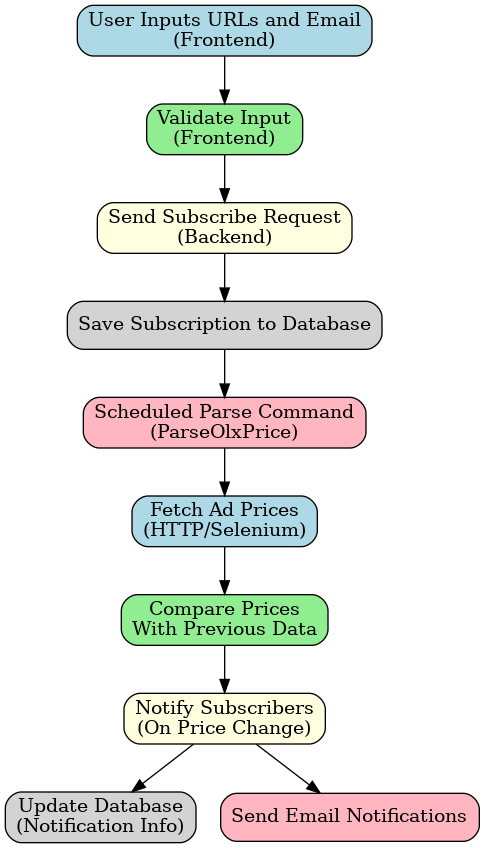
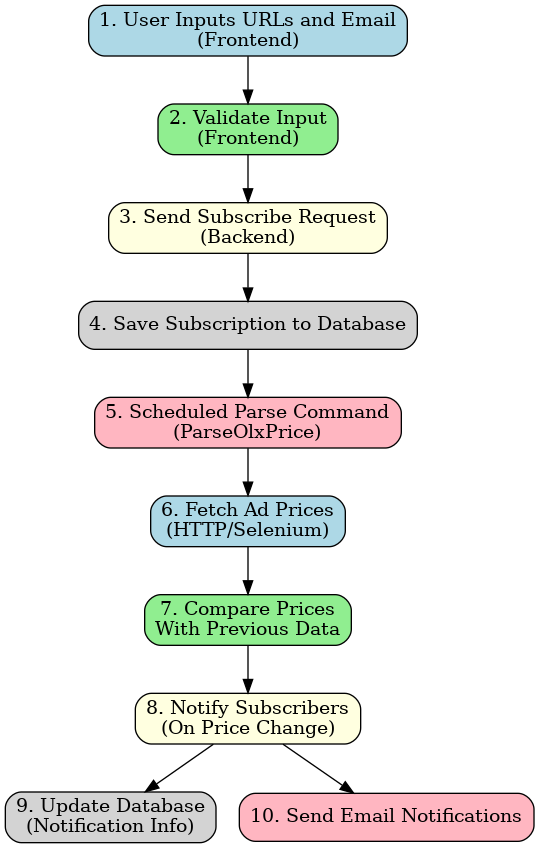
changed readme and flowchart

diff --git a/README.md b/README.md
@@ -1,13 +1,69 @@
 # OLX Price Monitor
 
+## About
+
 This project monitors price changes on OLX advertisements and sends email notifications when a price change is detected. It is built using this stack:
-[Laravel](https://laravel.com/) v.11 with [Blade templates](https://laravel.com/docs/11.x/blade#main-content), [Tailwindcss](https://tailwindcss.com/) and [AlpineJS](https://alpinejs.dev/).
+* [Laravel](https://laravel.com/) 11 with [Blade templates](https://laravel.com/docs/11.x/blade#main-content),
+* [Tailwindcss](https://tailwindcss.com/)
+* [AlpineJS](https://alpinejs.dev/)
+
+Although OLX do have a [public API](https://developer.olx.ua/api/doc), it only allows to deal with user's own advers, so that non-user advers can not be retrieved even with GET routes. So it was decided to parse OLX prices from data on advert web page. Luckily, every OLX advert page has `<script>` with type `ld+json`. It's loaded statically and contains all advert data in json format.
+
+For advert page parsing it was decided to implement two services - based on:
+* [Selenium Server (Grid)](https://www.selenium.dev/documentation/grid/),
+and
+* some PHP HTTP Client, I chose [Guzzle HTTP](https://docs.guzzlephp.org/en/stable/) for simplicity and for the fact that OLX price data can be retrieved from static page (no need to deal with dynamic page contents).
+
+Later on, during numerous tests I found parsing with _Selenium Server_ to be in most cases up to 3 times longer than with _GuzzleHTTP_ for the same advert pages. So I made parsing with HTTP client a default method for the service (although keeping choosing the other option possible).
 
 ## General Project Flowchart
 
 Below is a flowchart illustrating the process flow of the Price Monitoring Service:
 
 ![Price Monitoring Flowchart](docs/price_monitoring_flowchart.png)
+
+### Block Descriptions:
+
+1. **User Inputs URLs and Email (Frontend)**
+
+    The user provides the URLs of the items to monitor and their email address for notifications. These inputs are collected through the frontend form.
+
+2. **Validate Input (Frontend)**
+
+    The input is validated on the client side to ensure correct format (e.g., valid URLs and email addresses).
+
+3. **Send Subscribe Request (Backend)**
+
+    After successful frontend validation, a request is sent to the backend to save the subscription details.
+
+4. **Save Subscription to Database**
+
+    The backend validates the data further, then saves the subscription information (URLs and email) into the database.
+
+5. **Scheduled Parse Command (ParseOlxPrice)**
+
+    A scheduled command (ParseOlxPrice) runs periodically to fetch and monitor the prices of the subscribed items.
+
+6. **Fetch Ad Prices (HTTP/Selenium)**
+
+    The command fetches the latest prices for each subscribed URL, either through HTTP requests or by using Selenium for complex pages.
+
+7. **Compare Prices With Previous Data**
+
+    The fetched prices are compared with the previously stored prices in the database to detect changes.
+
+8. **Notify Subscribers (On Price Change)**
+
+    If a price change is detected, the system prepares a notification for the subscriber, including the updated price information.
+
+9. **Update Database (Notification Info)**
+
+    The database is updated with the notification details, including timestamps and other metadata for tracking.
+
+10. **Send Email Notifications**
+
+    The notification is sent to the subscriber's email using the queued mail system.
+
 
 ## Requirements
 
@@ -45,7 +101,7 @@ Email notifications are being sent with queue (`ParseOlxPrice` Command class que
 
 ## Set up Scheduler
 
-If you want to run the scheduled tasks to monitor prices periodically, you must run the Laravel scheduler.
+If you want to run the scheduled task to monitor prices periodically, you must run the Laravel scheduler.
 To run a scheduled worker locally, in new terninal window run:
 
 ```php artisan schedule:work```
@@ -60,13 +116,23 @@ Or you may set up cron job manually like this:
 ```bash
  while true; do php artisan schedule:run; sleep 60; done
  ```
+By default, price monitoring is scheduled with [HTTP service](app/Services/HttpService.php) parser, and will run every hour. 
+Parser logs will be output to [parse_olx_price.log](storage/logs/parse_olx_price.log) but you can change it in `routes/console.php`.
+
 ## Testing the System
 
-To test the OLX price monitoring manually, you can run the command:
-
-`php artisan schedule:test --name="parse:olx-price --method=http"`
-
+If you wish to test the OLX price monitoring manually, you can run the command:
+```bash
+php artisan schedule:test --name="parse:olx-price --method=http"
+```
+You still need queue worker running for this (to send notifications to subscribers).
 If everything is set up correctly, the prices will be monitored, and notifications will be sent when a price change is detected.
+If no argument passed to this command, HTTP service is used for price parsing. Alternatively, you can pass merhod argument to choose parsing with Selenium server: ` --method=selenium`.
+But before this, make sure Selenium Server is running, e.g. within Docker container, for example with this command:
+
+```bash
+docker run -d -p 4444:4444 -p 7900:7900 --shm-size="2g" selenium/standalone-chrome:latest
+```
 
 ## Usage
 
@@ -80,7 +146,7 @@ If everything is set up correctly, the prices will be monitored, and notificatio
 
 * The system will run monitoring the prices every hour (or as configured in routes/console.php). 
 * Period to trigger new price check for each adv URL is set to 2 hours by config parameter `max_url_age` in [config/parser.php](config/parser.php)
-* You can manually trigger the price monitoring by running `php artisan parse:olx-price`. By default, it uses http as method option (`--method=http`) but also `--method=selenium` option possible (slow!).
+* You can manually trigger the price monitoring by running `php artisan parse:olx-price`. By default, this command uses [HTTP service](app/Services/HttpService.php) (method option `--method=http`) but also `--method=selenium` option possible (much slower!).
 
 ## Notifications
 
